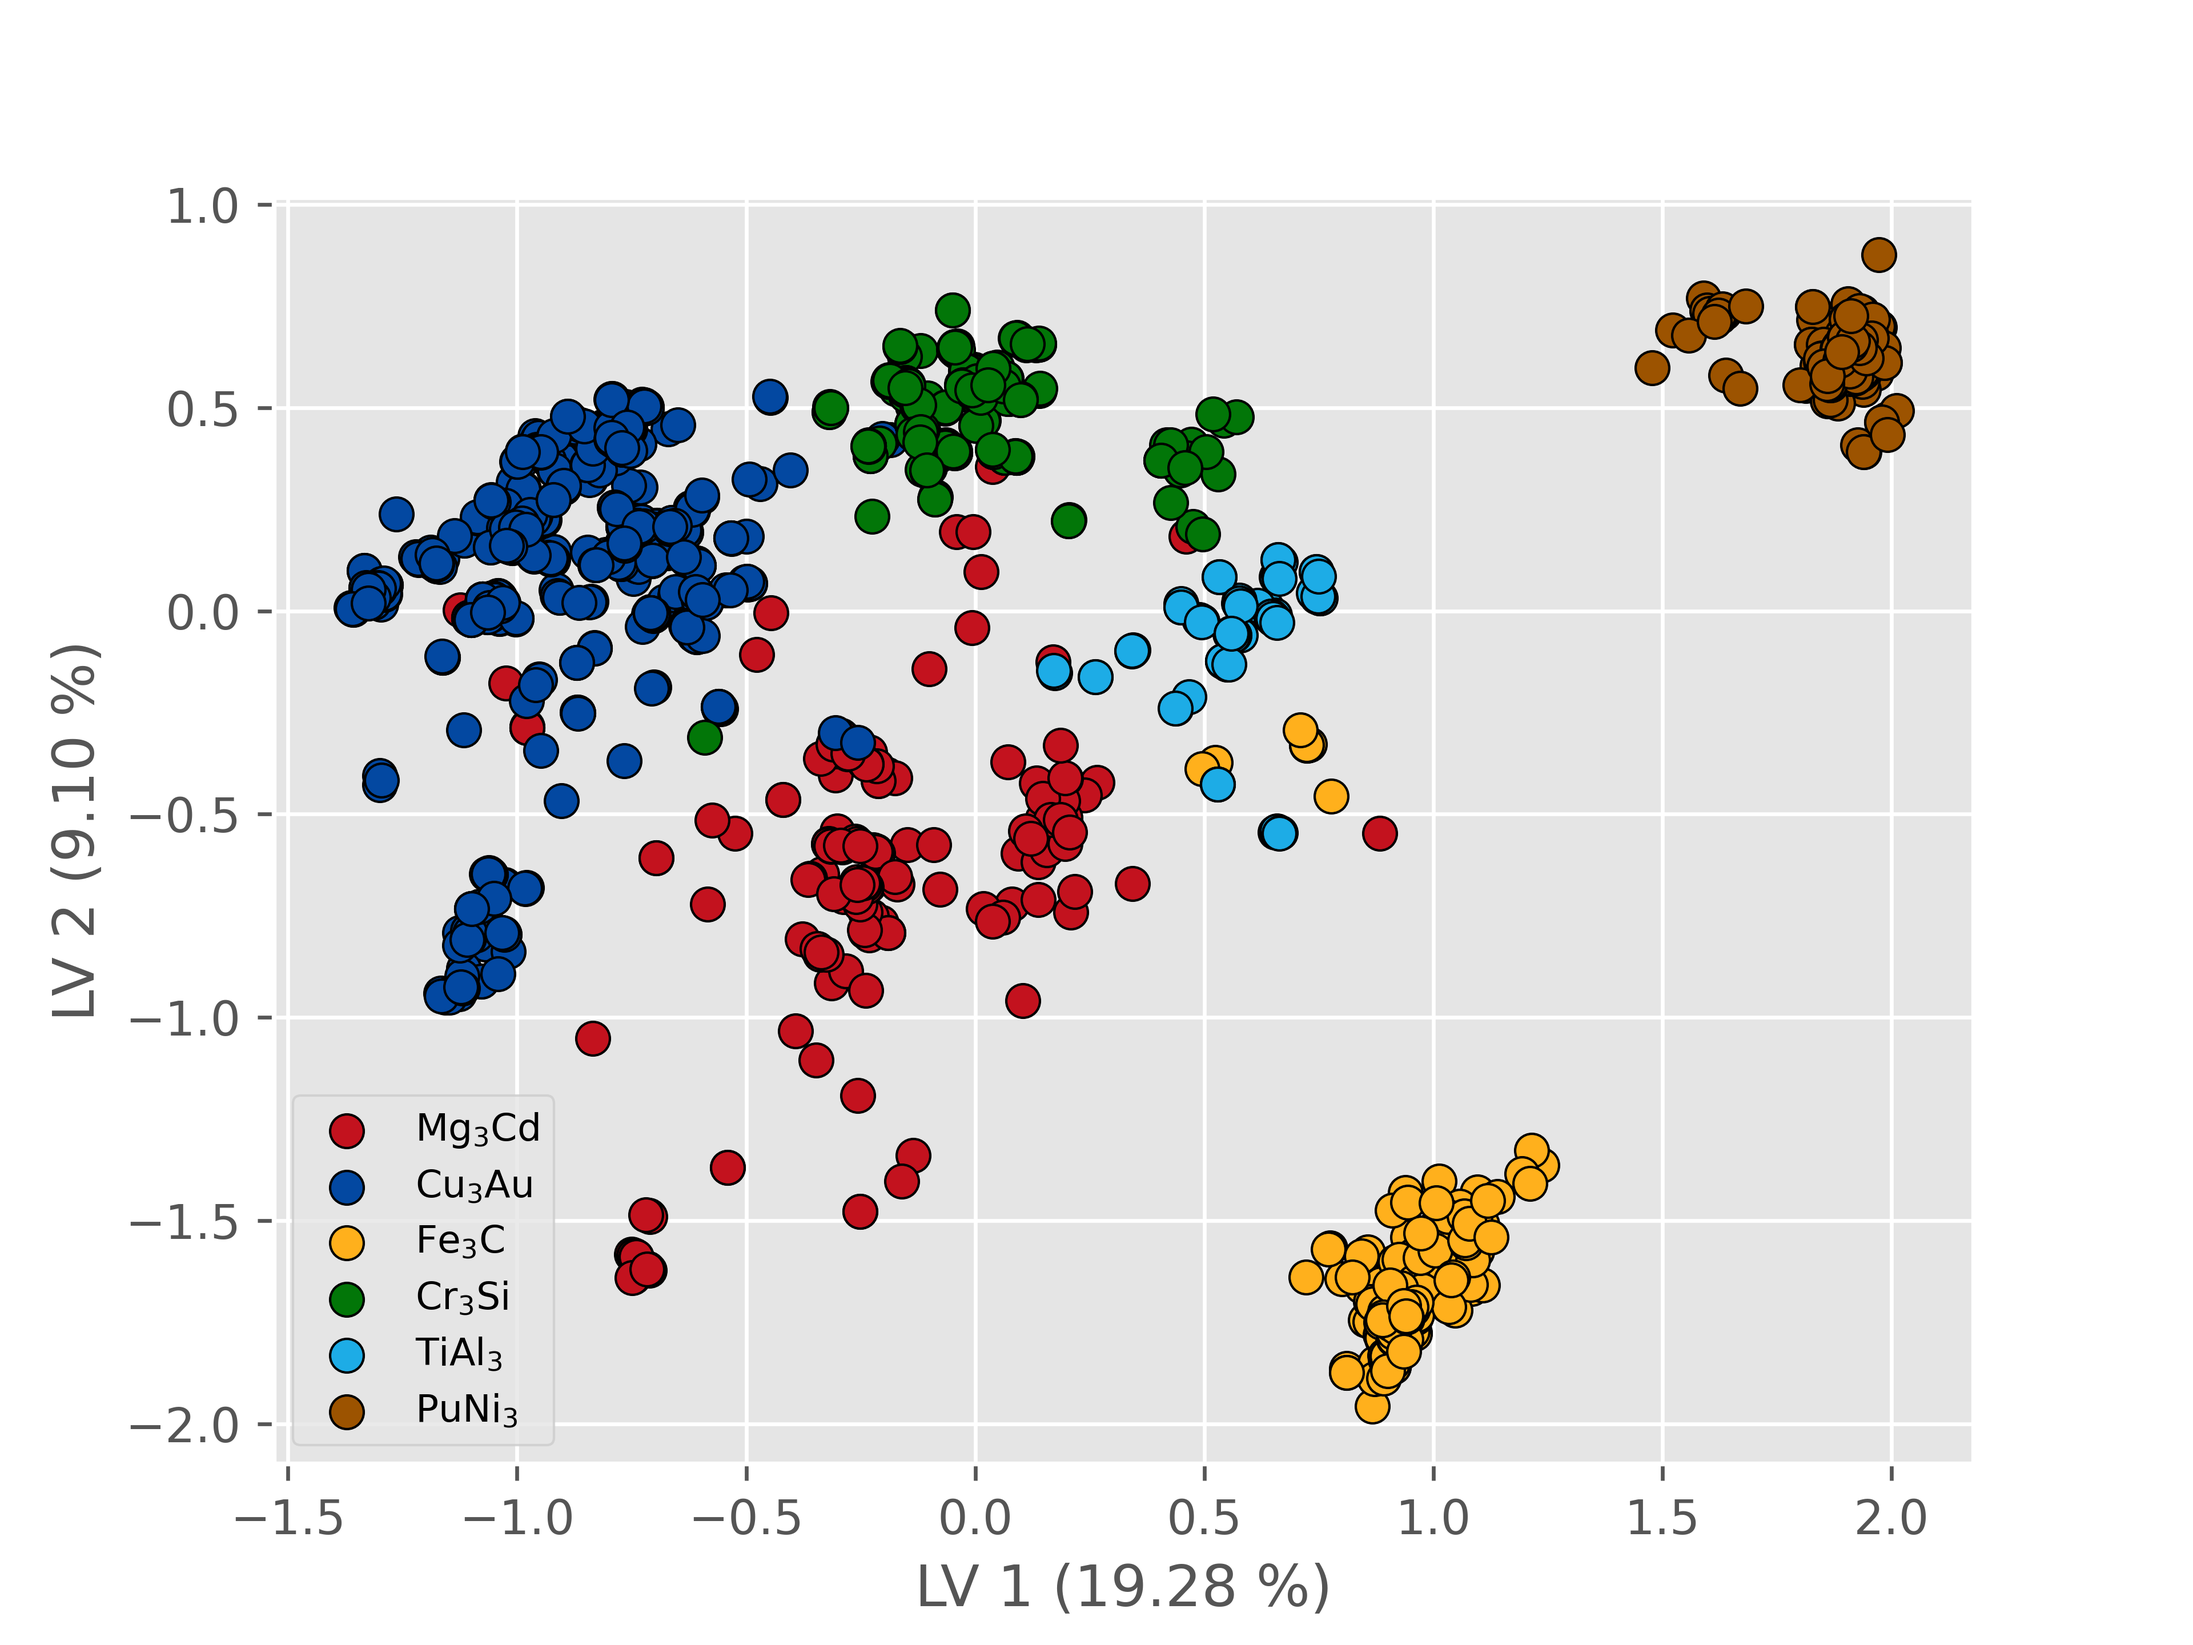
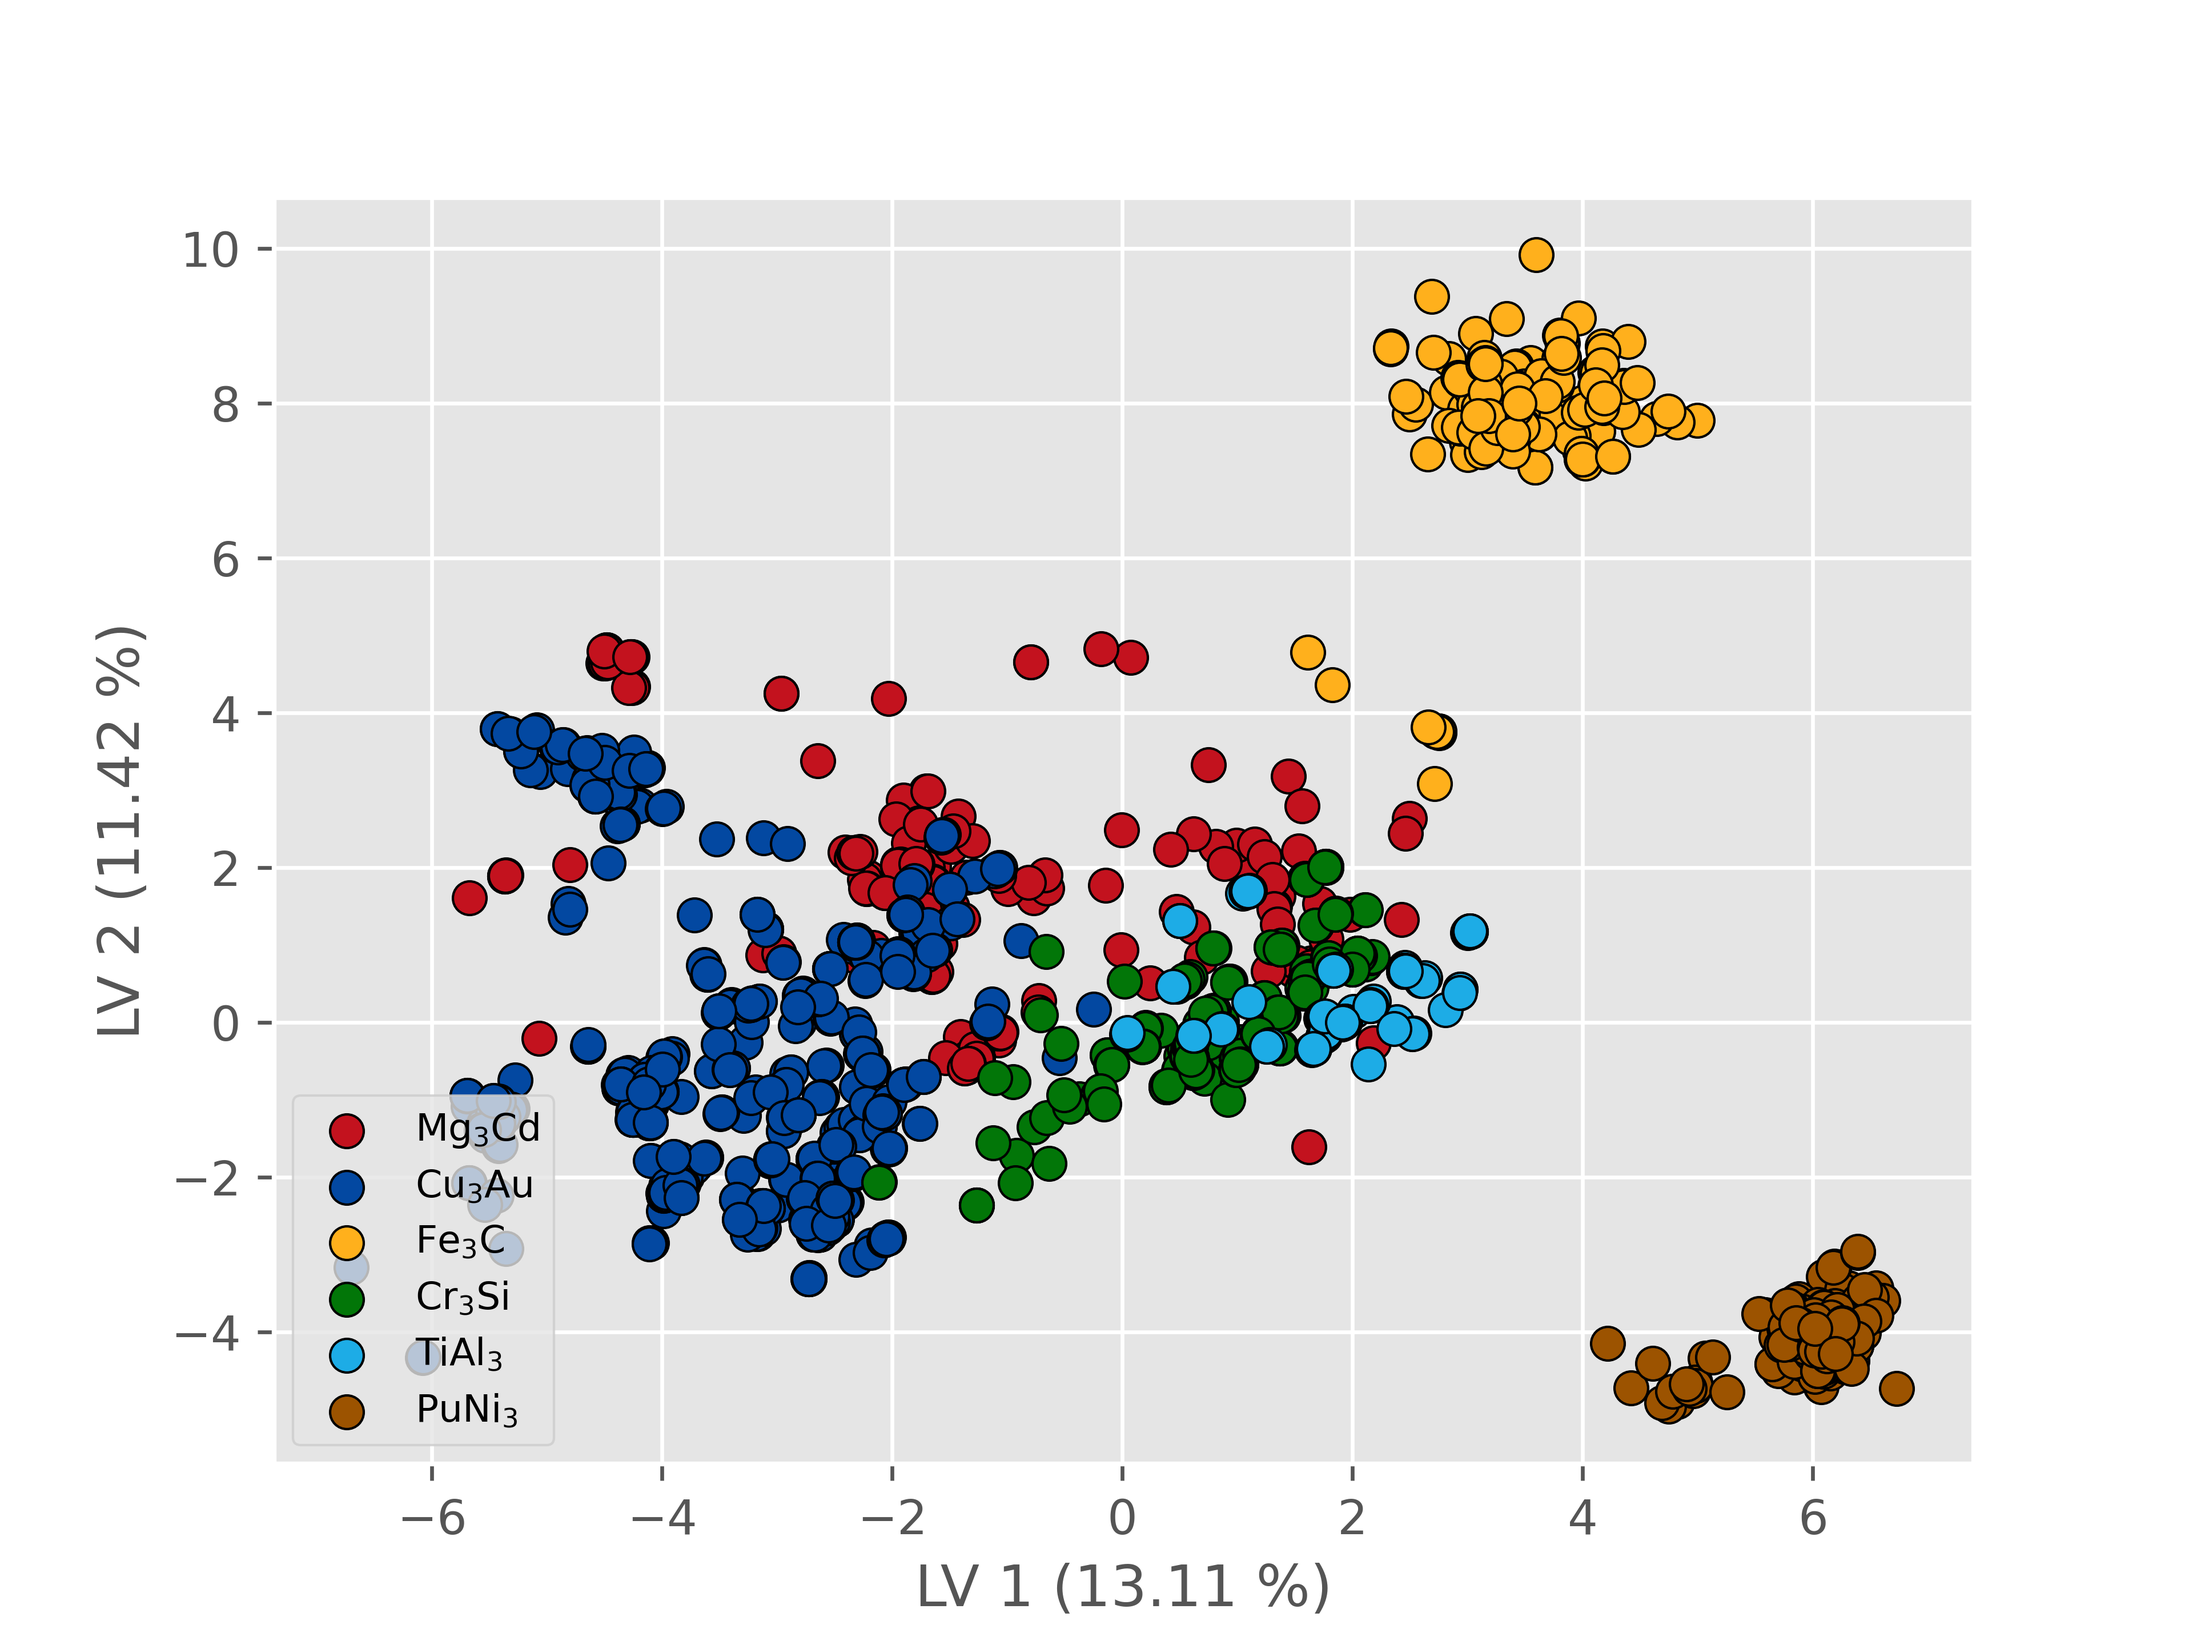
update

diff --git a/core/preprocess.py b/core/preprocess.py
@@ -23,33 +23,9 @@ def clean_dataframe(df):
 
     return df, removed_col_count
 
-def standardize_data(X, fit_scaler=True, scaler_standard=None, scaler_minmax=None):
-    """
-    Normalizes the data by combining autoscaling and rescaling to [0, 1].
-    Returns scaled data along with scalers for consistent preprocessing.
-
-    Parameters:
-        X: Feature matrix to be normalized.
-        fit_scaler: Whether to fit new scalers (default=True).
-        scaler_standard: Existing StandardScaler to reuse (default=None).
-        scaler_minmax: Existing MinMaxScaler to reuse (default=None).
-
-    Returns:
-        X_normalized: Normalized data.
-        scaler_standard: Fitted or reused StandardScaler.
-        scaler_minmax: Fitted or reused MinMaxScaler.
-    """
-    if fit_scaler:
-        scaler_standard = StandardScaler()
-        X_scaled = scaler_standard.fit_transform(X)
-        scaler_minmax = MinMaxScaler()
-        X_normalized = scaler_minmax.fit_transform(X_scaled)
-    else:
-        # Use existing scalers to transform data
-        X_scaled = scaler_standard.transform(X)
-        X_normalized = scaler_minmax.transform(X_scaled)
-
-    return X_normalized, scaler_standard, scaler_minmax
+def standardize_data(X):
+    scaler = StandardScaler()
+    return scaler.fit_transform(X)
 
 def drop_columns(df):
     """
@@ -91,15 +67,15 @@ def prepare_standarlize_X_block_(csv_file_path):
     print(f"Data shape after cleaning: {X_df.shape}")
 
     # Normalize the data and retrieve scalers
-    X, scaler_standard, scaler_minmax = standardize_data(X_df)
+    X = standardize_data(X_df)
     print(f"Shape of normalized data: {X.shape}")
 
     # Get the list of column names
     columns = X_df.columns.tolist()
 
-    return X_df, X, columns, scaler_standard, scaler_minmax
+    return X_df, X, columns
 
-def preprocess_validation_data(csv_file_path, scaler_standard, scaler_minmax):
+def preprocess_validation_data(csv_file_path):
     """
     Preprocesses validation data using the same scalers as the training data.
     
@@ -123,16 +99,8 @@ def preprocess_validation_data(csv_file_path, scaler_standard, scaler_minmax):
     print(f"Removed {removed_col_count} columns with invalid values in validation data.")
     print(f"Validation data shape after cleaning: {X_df.shape}")
 
-    # Ensure validation columns match training columns
-    training_columns = scaler_standard.feature_names_in_  # Retrieve training feature names
-    if list(X_df.columns) != list(training_columns):
-        print("Reordering validation columns to match training data...")
-        X_df = X_df[training_columns]
-
     # Normalize validation data using the provided scalers
-    X, _, _ = standardize_data(
-        X_df, fit_scaler=False, scaler_standard=scaler_standard, scaler_minmax=scaler_minmax
-    )
+    X = standardize_data(X_df)
     print(f"Shape of normalized validation data: {X.shape}")
 
     return X_df, X

diff --git a/main.py b/main.py
@@ -28,12 +28,12 @@ for i, csv_file_path in enumerate(csv_file_paths, start=1):
     start_time = time.perf_counter()
 
     # Load and preprocess the dataset
-    X_df, X, columns, scaler_standard, scaler_minmax = preprocess.prepare_standarlize_X_block_(csv_file_path)
+    X_df, X, columns = preprocess.prepare_standarlize_X_block_(csv_file_path)
     print(
         f"\nProcessing {csv_file_path} with {X.shape[1]} features ({i}/{len(csv_file_paths)})."
     )
     X_val_df, X_val = preprocess.preprocess_validation_data(
-        validation_csv_file, scaler_standard, scaler_minmax
+        validation_csv_file
     )
 
     print("(1/4) Running SVM model...")

diff --git a/core/models/PLS_DA.py b/core/models/PLS_DA.py
@@ -38,7 +38,7 @@ def find_best_n_dim(X, y, csv_file_path, MAX_N_COMPONENTS=10):
     skf = StratifiedKFold(n_splits=10, shuffle=True, random_state=19)
 
     for n in range(2, MAX_N_COMPONENTS + 1):
-        pls = PLSRegression(n_components=n, scale=False)
+        pls = PLSRegression(n_components=n)
         y_pred_continuous = cross_val_predict(pls, X, y, cv=skf)
         y_pred = np.round(y_pred_continuous).astype(int)
         y_pred = np.clip(y_pred, 0, 9)

diff --git a/core/models/PLS_DA_plot.py b/core/models/PLS_DA_plot.py
@@ -29,7 +29,7 @@ def plot_two_component(X, y, output_file_path):
     y_encoded = encode_classes(y, class_mapping)
 
     # Load the dataset into PLS
-    pls = PLSRegression(n_components=2, scale=False)
+    pls = PLSRegression(n_components=2)
     # fit_transform returns a tuple (X_scores, Y_scores)
     X_pls = pls.fit_transform(X, y_encoded)[0]
 
